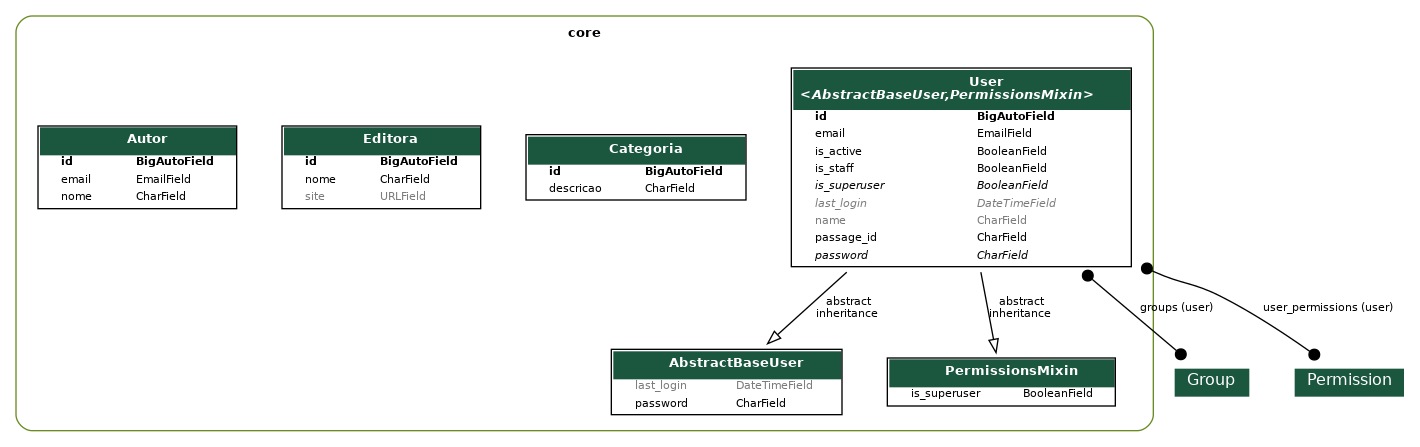
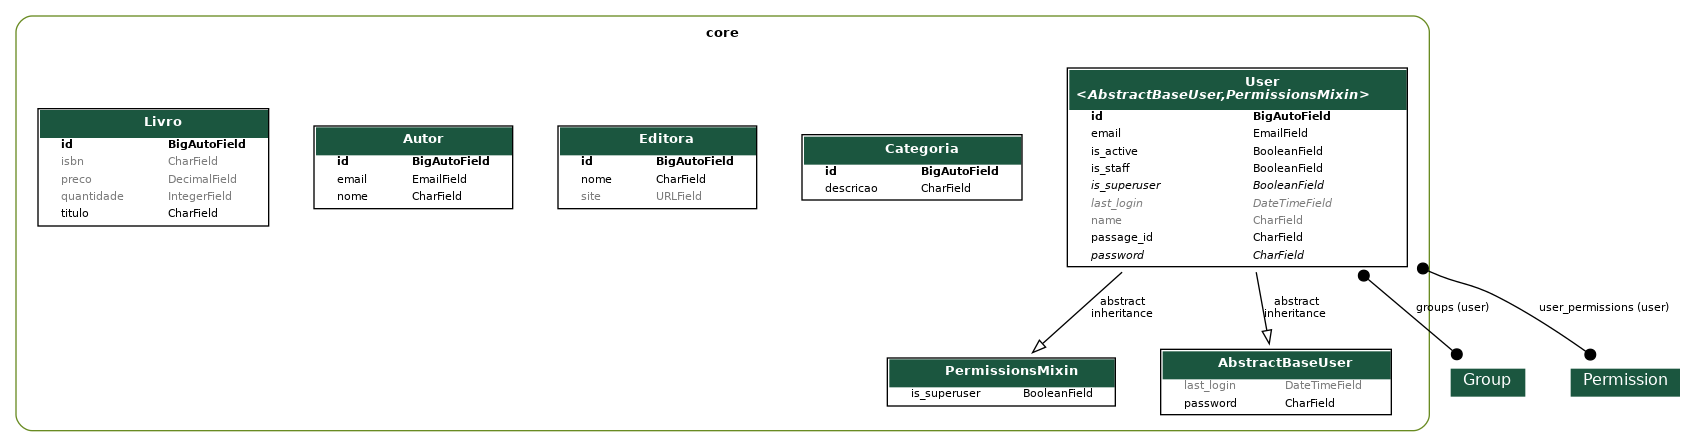
feat: criação da entidade para Livro

diff --git a/core/migrations/0008_livro_alter_autor_options.py b/core/migrations/0008_livro_alter_autor_options.py
@@ -1,0 +1,27 @@
+# Generated by Django 5.1.7 on 2025-04-11 17:51
+
+from django.db import migrations, models
+
+
+class Migration(migrations.Migration):
+
+    dependencies = [
+        ('core', '0007_autor'),
+    ]
+
+    operations = [
+        migrations.CreateModel(
+            name='Livro',
+            fields=[
+                ('id', models.BigAutoField(auto_created=True, primary_key=True, serialize=False, verbose_name='ID')),
+                ('titulo', models.CharField(max_length=255)),
+                ('isbn', models.CharField(blank=True, max_length=32, null=True)),
+                ('quantidade', models.IntegerField(blank=True, default=0, null=True)),
+                ('preco', models.DecimalField(blank=True, decimal_places=2, default=0, max_digits=7, null=True)),
+            ],
+        ),
+        migrations.AlterModelOptions(
+            name='autor',
+            options={'verbose_name': 'Autor', 'verbose_name_plural': 'Autores'},
+        ),
+    ]

diff --git a/app/urls.py b/app/urls.py
@@ -1,4 +1,5 @@
 from django.contrib import admin
+from core.models import Livro
 from core.views import CategoriaViewSet, EditoraViewSet, UserViewSet
 from django.urls import include, path
 from drf_spectacular.views import (
@@ -8,7 +9,7 @@ from drf_spectacular.views import (
 )
 from rest_framework.routers import DefaultRouter
 
-from core.views import UserViewSet, CategoriaViewSet, EditoraViewSet, AutorViewSet
+from core.views import UserViewSet, CategoriaViewSet, EditoraViewSet, AutorViewSet, LivroViewSet
 
 router = DefaultRouter()
 
@@ -17,6 +18,8 @@ router.register(r'usuarios', UserViewSet, basename='usuarios')
 router.register(r"categorias", CategoriaViewSet)
 router.register(r"editoras", EditoraViewSet)
 router.register(r"autor", AutorViewSet)
+router.register(r"livro", LivroViewSet)
+
 
 
 

diff --git a/core/serializers/livro.py b/core/serializers/livro.py
@@ -1,8 +1,8 @@
 from rest_framework.serializers import ModelSerializer
 
-from core.models import Autor
+from core.models import Livro
 
-class AutorSerializer(ModelSerializer):
+class LivroSerializer(ModelSerializer):
     class Meta:
-        model = Autor
+        model = Livro
         fields = "__all__"

diff --git a/core/views/livro.py b/core/views/livro.py
@@ -1,0 +1,9 @@
+from rest_framework.viewsets import ModelViewSet
+
+from core.models import Livro
+from core.serializers import LivroSerializer
+
+
+class LivroViewSet(ModelViewSet):
+    queryset = Livro.objects.all()
+    serializer_class = LivroSerializer

diff --git a/core/admin.py b/core/admin.py
@@ -55,3 +55,5 @@ admin.site.register(models.User, UserAdmin)
 admin.site.register(models.Categoria)
 admin.site.register(models.Editora)
 admin.site.register(models.Autor)
+admin.site.register(models.Livro)
+

diff --git a/core/serializers/__init__.py b/core/serializers/__init__.py
@@ -2,3 +2,4 @@ from .user import UserSerializer
 from .categoria import CategoriaSerializer
 from .editora import EditoraSerializer
 from .autor import AutorSerializer
+from .livro import LivroSerializer

diff --git a/core/views/__init__.py b/core/views/__init__.py
@@ -2,3 +2,4 @@ from .user import UserViewSet
 from .categoria import CategoriaViewSet
 from .editora import EditoraViewSet
 from .autor import AutorViewSet
+from .livro import LivroViewSet
